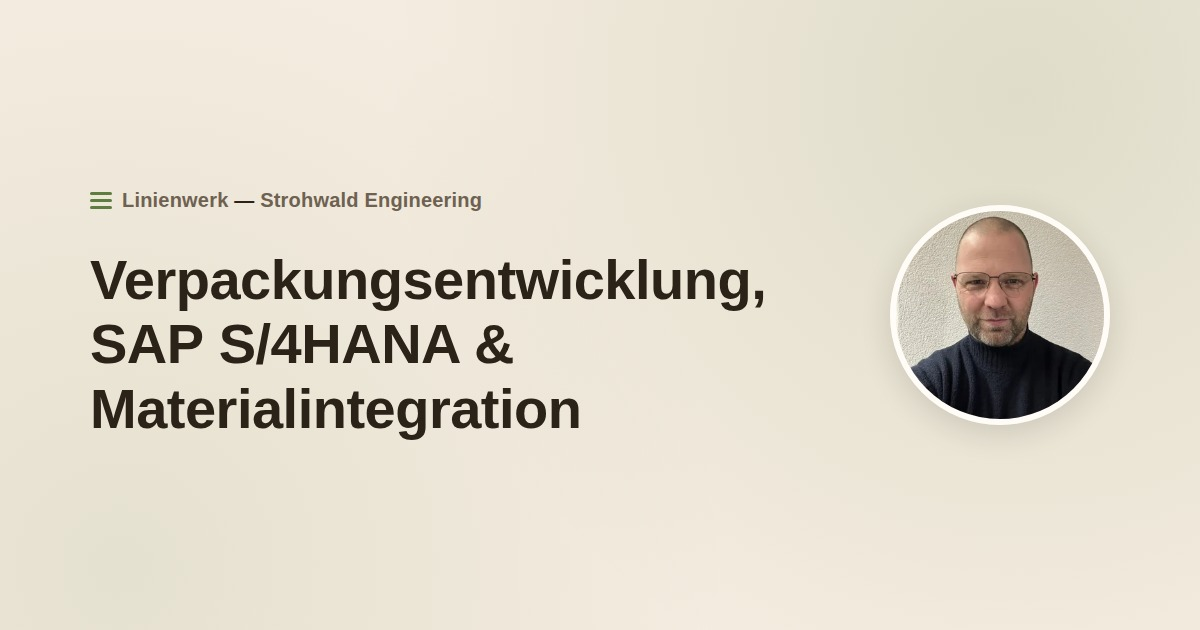
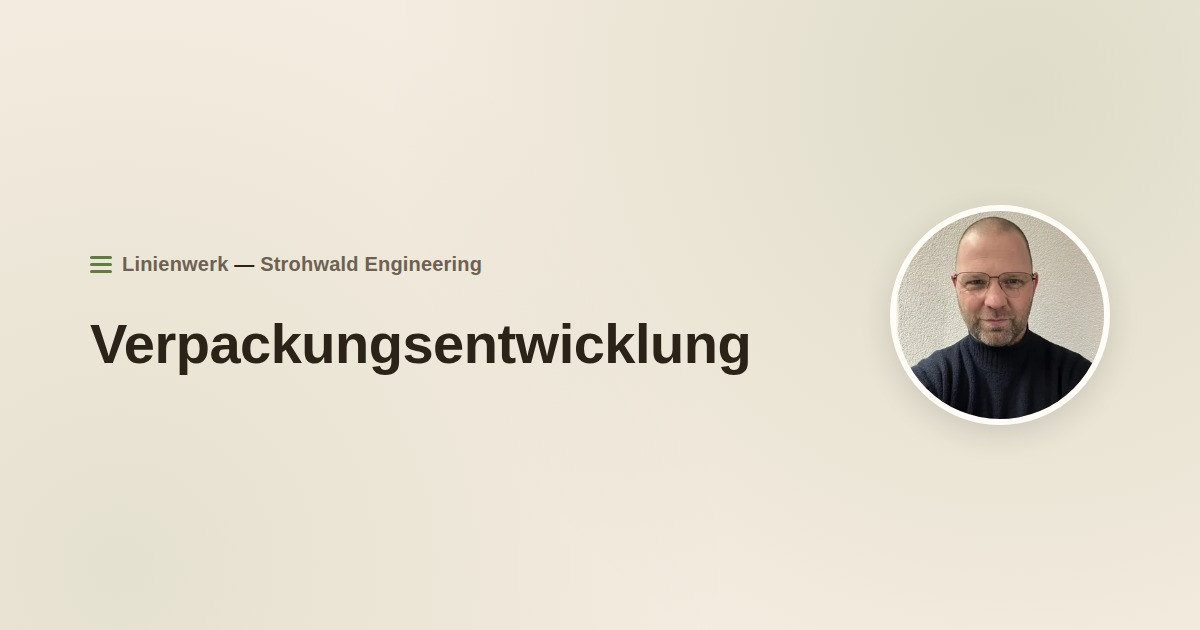
Simplify OG preview headline and meta descriptions to Verpackungsentwicklung
Dropped "SAP S/4HANA & Materialintegration" from the share-preview image
and meta descriptions - it named a specific SAP product version and a
vague compound term that didn't match the plainer language used
elsewhere on the site.

Claude-Session: https://claude.ai/code/session_0121A55HVs4ayK69TrCnNnrs

Changed region(s): [[0.0617, 0.3921, 0.6475, 0.6032], [0.0617, 0.6032, 0.4933, 0.6937], [0.0617, 0.3016, 0.4008, 0.3317]]

diff --git a/index.html b/index.html
@@ -4,19 +4,19 @@
 <meta charset="UTF-8" />
 <meta name="viewport" content="width=device-width, initial-scale=1.0" />
 <title>Linienwerk – Strohwald Engineering | André Strohwald</title>
-<meta name="description" content="André Strohwald – Verpackungsentwicklung, SAP S/4HANA und Materialintegration für Lebensmittelbetriebe in Nord- und Mitteldeutschland." />
+<meta name="description" content="André Strohwald – Verpackungsentwicklung für Lebensmittelbetriebe in Nord- und Mitteldeutschland." />
 <meta property="og:type" content="website" />
 <meta property="og:site_name" content="Linienwerk – Strohwald Engineering" />
 <meta property="og:url" content="https://linienwerk-strohwald.de/" />
 <meta property="og:title" content="Linienwerk – Strohwald Engineering" />
-<meta property="og:description" content="André Strohwald – Verpackungsentwicklung, SAP S/4HANA und Materialintegration für Lebensmittelbetriebe in Nord- und Mitteldeutschland." />
+<meta property="og:description" content="André Strohwald – Verpackungsentwicklung für Lebensmittelbetriebe in Nord- und Mitteldeutschland." />
 <meta property="og:image" content="https://linienwerk-strohwald.de/assets/images/og-image.jpg" />
 <meta property="og:image:width" content="1200" />
 <meta property="og:image:height" content="630" />
 <meta property="og:locale" content="de_DE" />
 <meta name="twitter:card" content="summary_large_image" />
 <meta name="twitter:title" content="Linienwerk – Strohwald Engineering" />
-<meta name="twitter:description" content="André Strohwald – Verpackungsentwicklung, SAP S/4HANA und Materialintegration für Lebensmittelbetriebe in Nord- und Mitteldeutschland." />
+<meta name="twitter:description" content="André Strohwald – Verpackungsentwicklung für Lebensmittelbetriebe in Nord- und Mitteldeutschland." />
 <meta name="twitter:image" content="https://linienwerk-strohwald.de/assets/images/og-image.jpg" />
 <link rel="icon" href="assets/favicon.svg" type="image/svg+xml" />
 <link rel="preconnect" href="https://fonts.googleapis.com" />

diff --git a/ueber-mich.html b/ueber-mich.html
@@ -4,19 +4,19 @@
 <meta charset="UTF-8" />
 <meta name="viewport" content="width=device-width, initial-scale=1.0" />
 <title>Über mich | Linienwerk – Strohwald Engineering</title>
-<meta name="description" content="André Strohwald – Verpackungsentwicklung, SAP S/4HANA und Materialintegration in Deutschland und der Schweiz." />
+<meta name="description" content="André Strohwald – Verpackungsentwicklung in Deutschland und der Schweiz." />
 <meta property="og:type" content="website" />
 <meta property="og:site_name" content="Linienwerk – Strohwald Engineering" />
 <meta property="og:url" content="https://linienwerk-strohwald.de/ueber-mich.html" />
 <meta property="og:title" content="Über mich – André Strohwald" />
-<meta property="og:description" content="André Strohwald – Verpackungsentwicklung, SAP S/4HANA und Materialintegration in Deutschland und der Schweiz." />
+<meta property="og:description" content="André Strohwald – Verpackungsentwicklung in Deutschland und der Schweiz." />
 <meta property="og:image" content="https://linienwerk-strohwald.de/assets/images/og-image.jpg" />
 <meta property="og:image:width" content="1200" />
 <meta property="og:image:height" content="630" />
 <meta property="og:locale" content="de_DE" />
 <meta name="twitter:card" content="summary_large_image" />
 <meta name="twitter:title" content="Über mich – André Strohwald" />
-<meta name="twitter:description" content="André Strohwald – Verpackungsentwicklung, SAP S/4HANA und Materialintegration in Deutschland und der Schweiz." />
+<meta name="twitter:description" content="André Strohwald – Verpackungsentwicklung in Deutschland und der Schweiz." />
 <meta name="twitter:image" content="https://linienwerk-strohwald.de/assets/images/og-image.jpg" />
 <link rel="icon" href="assets/favicon.svg" type="image/svg+xml" />
 <link rel="preconnect" href="https://fonts.googleapis.com" />
